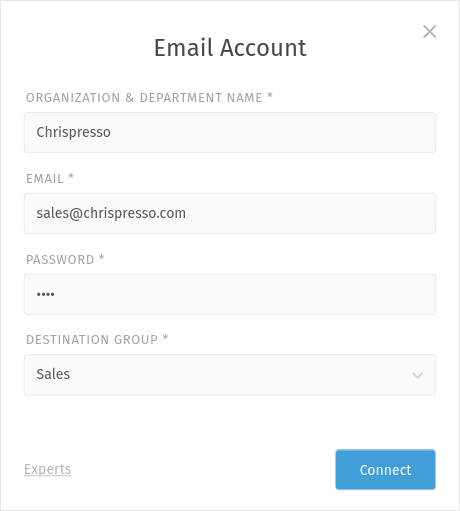
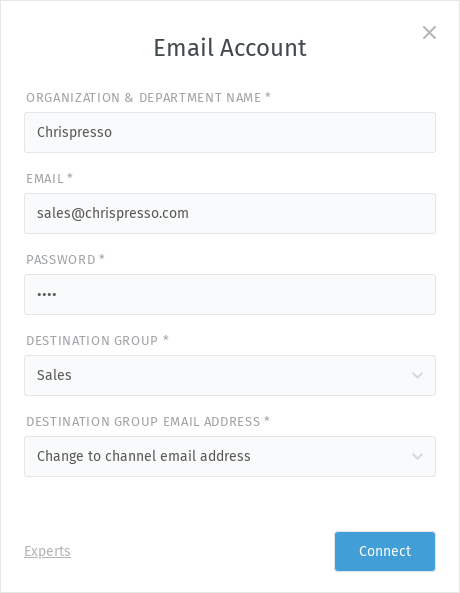
Email channel

diff --git a/channels/email/accounts/account-setup.rst b/channels/email/accounts/account-setup.rst
@@ -76,13 +76,24 @@ Password
    Your account password.
 
 Destination Group
-   The :doc:`group </manage/groups/index>` that incoming mail will be assigned
+   The :doc:`group </manage/groups/index>` that incoming emails will be assigned
    to.
 
    Use :doc:`filters </channels/email/filters>` for more fine-grained sorting
    of incoming email.
 
 .. _email-new-account-experts:
+
+Destination Group Email Address
+   Decide if the email address should be assigned to the selected group for
+   outgoing emails.
+
+   **Change to channel email address** will add this email address to the group
+   for outgoing emails. This may overwrite an already assigned email address.
+
+   **Do not change email address** doesn't assign an email address to the group
+   or change it. If the group has no assigned email address, it stays empty.
+   If the group already has an assigned email address, it will be overwritten.
 
 Experts
 -------

diff --git a/channels/email/accounts/account-setup-group-hint.include.rst b/channels/email/accounts/account-setup-group-hint.include.rst
@@ -1,7 +1,5 @@
-.. hint:: 🤓 **Don't forget to set the outgoing email address**
+.. hint:: If you did not assign the email address to the group,
+   make sure to check if the correct email address is
+   :doc:`assigned to the group </manage/groups/settings>`.
 
-   In Zammad each group decides about the email address that's used for
-   outgoing emails. The incoming group technically has no effect on it.
-
-   For this reason make sure to also adjust each affected
-   :doc:`groups setting </manage/groups/settings>`.
+   Otherwise the agents of this group aren't able to send emails.
